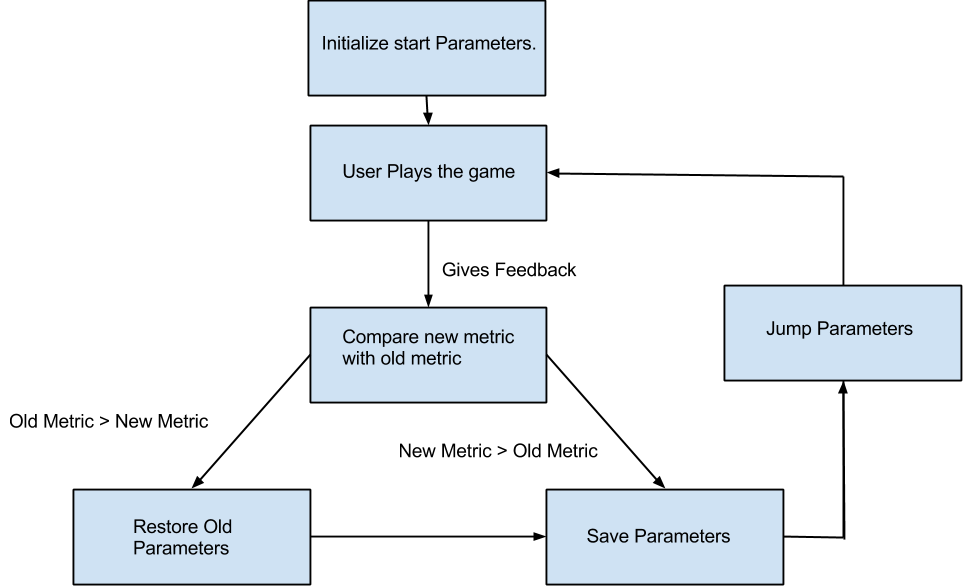
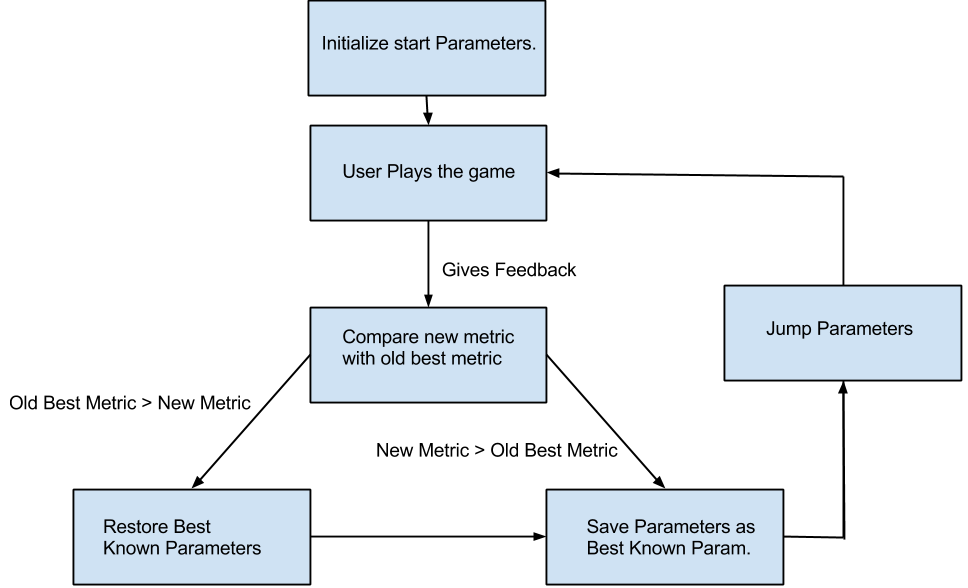
Report changes.

diff --git a/LibGDXScene2d/my-gdx-game/src/com/me/mygdxgame/MyGdxGame.java b/LibGDXScene2d/my-gdx-game/src/com/me/mygdxgame/MyGdxGame.java
@@ -200,9 +200,9 @@ public class MyGdxGame implements ApplicationListener
 		Gdx.gl.glClear(GL10.GL_COLOR_BUFFER_BIT);
 		if (won || lost)
 		{
-			if(thinkTank.thinkTankInfo.successiveGameCounter < 30)
+			if(thinkTank.thinkTankInfo.successiveGameCounter < 100)
 			{
-				if(thinkTank.oldParameters.get("GlobalReloadTime") == null || thinkTank.parameters.get("GlobalReloadTime").value > thinkTank.oldParameters.get("GlobalReloadTime").value)
+				if((thinkTank.oldParameters.get("GlobalReloadTime") == null || thinkTank.parameters.get("GlobalReloadTime").value > thinkTank.oldParameters.get("GlobalReloadTime").value) && (thinkTank.oldParameters.get("GlobalBuildCost") == null || thinkTank.parameters.get("GlobalBuildCost").value > thinkTank.oldParameters.get("GlobalBuildCost").value) && (thinkTank.oldParameters.get("DiggerChance") == null || thinkTank.parameters.get("DiggerChance").value > thinkTank.oldParameters.get("DiggerChance").value))
 				{
 					questionaire.happy = 3;
 					questionaire.difficult = 2;
